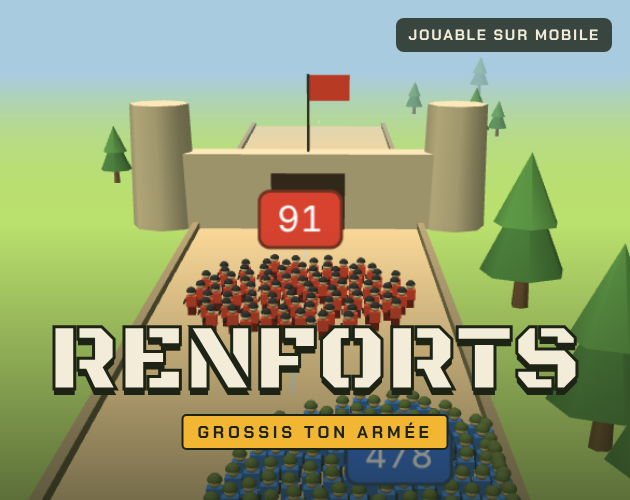
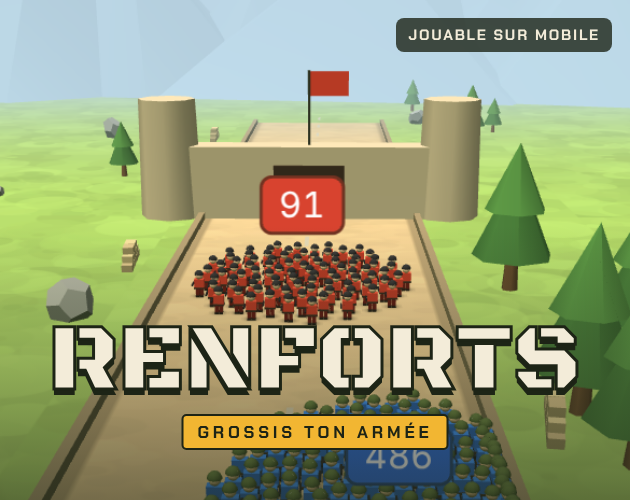
v0.5 : saut de qualité graphique
- Soldats animés : jambes séparées qui alternent pendant la course
- Ombres douces sous chaque soldat
- Ciel en dégradé et chaîne de montagnes estompée à l'horizon
- Textures générées pour le sol et la route
- Rochers, murets de sacs de sable, camp de départ (tentes, caisses, drapeau)
- Nouvelle couverture et nouvelles captures pour itch.io

Claude-Session: https://claude.ai/code/session_01S5JVXCMXMtVsKU2TcnB8Hc

diff --git a/index.html b/index.html
@@ -296,7 +296,40 @@ body {
   scene.background = new THREE.Color(COL.sky);
   scene.fog = new THREE.Fog(COL.sky, 55, 165);
   const camera = new THREE.PerspectiveCamera(55, 1, 0.5, 400);
-  scene.add(new THREE.HemisphereLight(0xffffff, 0x5f7340, 0.8));
+  const hemi = new THREE.HemisphereLight(0xffffff, 0x5f7340, 0.8);
+  scene.add(hemi);
+
+  const SKY_R = 330;
+  const skyGeo = new THREE.SphereGeometry(SKY_R, 24, 12);
+  skyGeo.setAttribute('color', new THREE.Float32BufferAttribute(new Float32Array(skyGeo.attributes.position.count * 3), 3));
+  const skyDome = new THREE.Mesh(skyGeo, new THREE.MeshBasicMaterial({ vertexColors: true, side: THREE.BackSide, fog: false, depthWrite: false }));
+  skyDome.renderOrder = -1;
+  scene.add(skyDome);
+  function paintSky(top, horizon) {
+    const pos = skyGeo.attributes.position, col = skyGeo.attributes.color;
+    const a = new THREE.Color(top), b = new THREE.Color(horizon), c = new THREE.Color();
+    for (let i = 0; i < pos.count; i++) {
+      const t = Math.pow(Math.max(0, pos.getY(i) / SKY_R), 0.55);
+      c.copy(b).lerp(a, t);
+      col.setXYZ(i, c.r, c.g, c.b);
+    }
+    col.needsUpdate = true;
+  }
+  // Chaîne de montagnes à l'horizon (suit la caméra, estompée par le brouillard)
+  const mountainMat = new THREE.MeshLambertMaterial({ color: 0x7c93a6, flatShading: true });
+  const mountains = new THREE.Group();
+  {
+    const r = mulberry32(99);
+    for (let i = 0; i < 26; i++) {
+      const a = -Math.PI * 0.95 + (i / 25) * Math.PI * 0.9 + (r() - 0.5) * 0.08;
+      const dist = 148 + r() * 14, h = 9 + r() * 15, w = 20 + r() * 20;
+      const m = new THREE.Mesh(new THREE.ConeGeometry(w, h, 5 + Math.floor(r() * 3)), mountainMat);
+      m.position.set(Math.cos(a) * dist, h / 2 - 1.5, Math.sin(a) * dist);
+      m.rotation.y = r() * 6;
+      mountains.add(m);
+    }
+  }
+  scene.add(mountains);
   const sun = new THREE.DirectionalLight(0xfff4e0, 0.7);
   sun.position.set(-8, 20, 10);
   scene.add(sun);
@@ -330,10 +363,11 @@ body {
     g.setAttribute('color', new THREE.Float32BufferAttribute(col, 3));
     return g;
   }
-  function makeSoldier(body, legs, helm) {
+  function makeSoldier(body, legs, helm, withLegs) {
     const g = mergeParts([
-      { geo: new THREE.BoxGeometry(0.26, 0.28, 0.16).translate(0, 0.14, 0), color: legs },
+      { geo: new THREE.BoxGeometry(withLegs === false ? 0.01 : 0.26, withLegs === false ? 0.01 : 0.28, withLegs === false ? 0.01 : 0.16).translate(0, 0.14, 0), color: legs },
       { geo: new THREE.BoxGeometry(0.34, 0.34, 0.22).translate(0, 0.45, 0), color: body },
+      { geo: new THREE.BoxGeometry(0.36, 0.06, 0.24).translate(0, 0.31, 0), color: 0x3b2f22 },
       { geo: new THREE.SphereGeometry(0.13, 8, 6).translate(0, 0.73, 0), color: COL.skin },
       { geo: new THREE.SphereGeometry(0.16, 8, 4, 0, Math.PI * 2, 0, Math.PI / 2).translate(0, 0.76, 0), color: helm },
       { geo: new THREE.BoxGeometry(0.05, 0.05, 0.44).translate(0.21, 0.47, -0.12), color: COL.gun }
@@ -341,10 +375,35 @@ body {
     g.scale(1.25, 1.25, 1.25);
     return g;
   }
+  // Une jambe : le haut de la boîte est la hanche (pivot de l'animation)
+  function makeLeg(color) {
+    const g = mergeParts([
+      { geo: new THREE.BoxGeometry(0.12, 0.3, 0.15).translate(0, -0.15, 0), color },
+      { geo: new THREE.BoxGeometry(0.13, 0.07, 0.19).translate(0, -0.27, -0.02), color: 0x2a2219 }
+    ]);
+    g.scale(1.25, 1.25, 1.25);
+    return g;
+  }
+  const HIP_Y = 0.36, LEG_X = 0.088;
   const vcMat = new THREE.MeshLambertMaterial({ vertexColors: true });
-  const allyMesh = new THREE.InstancedMesh(makeSoldier(COL.ally, COL.allyLegs, COL.helmA), vcMat, CAP_ALLY);
-  const enemyMesh = new THREE.InstancedMesh(makeSoldier(COL.enemy, COL.enemyLegs, COL.helmE), vcMat, CAP_ENEMY_TOTAL);
-  for (const m of [allyMesh, enemyMesh]) {
+  const allyMesh = new THREE.InstancedMesh(makeSoldier(COL.ally, COL.allyLegs, COL.helmA, false), vcMat, CAP_ALLY);
+  const enemyMesh = new THREE.InstancedMesh(makeSoldier(COL.enemy, COL.enemyLegs, COL.helmE, false), vcMat, CAP_ENEMY_TOTAL);
+  const allyLegs = new THREE.InstancedMesh(makeLeg(COL.allyLegs), vcMat, CAP_ALLY * 2);
+  const enemyLegs = new THREE.InstancedMesh(makeLeg(COL.enemyLegs), vcMat, CAP_ENEMY_TOTAL * 2);
+  // Ombres douces sous chaque soldat
+  function blobTexture() {
+    const c = document.createElement('canvas'); c.width = c.height = 64;
+    const x = c.getContext('2d'), g = x.createRadialGradient(32, 32, 2, 32, 32, 31);
+    g.addColorStop(0, 'rgba(20,24,16,0.5)'); g.addColorStop(1, 'rgba(20,24,16,0)');
+    x.fillStyle = g; x.fillRect(0, 0, 64, 64);
+    return new THREE.CanvasTexture(c);
+  }
+  const shadowMesh = new THREE.InstancedMesh(
+    new THREE.PlaneGeometry(0.85, 0.85).rotateX(-Math.PI / 2),
+    new THREE.MeshBasicMaterial({ map: blobTexture(), transparent: true, depthWrite: false, polygonOffset: true, polygonOffsetFactor: -2, polygonOffsetUnits: -2 }),
+    CAP_ALLY + CAP_ENEMY_TOTAL);
+  shadowMesh.renderOrder = 1;
+  for (const m of [allyMesh, enemyMesh, allyLegs, enemyLegs, shadowMesh]) {
     m.instanceMatrix.setUsage(THREE.DynamicDrawUsage);
     m.frustumCulled = false;
     m.count = 0;
@@ -431,10 +490,31 @@ body {
 
   // ---------- Décors (changent toutes les 3 opérations) ----------
   const BIOMES = [
-    { name: 'Plaine', kind: 'pine', sky: 0xa9cbe0, ground: 0x86a453, road: 0xb59f74, rail: 0x8a7b5c },
-    { name: 'Désert', kind: 'cactus', sky: 0xeccfa0, ground: 0xd9b47a, road: 0x9c8466, rail: 0x7a5f43 },
-    { name: 'Neige', kind: 'snow', sky: 0xc9d8e6, ground: 0xeef2f5, road: 0x8f969c, rail: 0x5f666c }
+    { name: 'Plaine', kind: 'pine', sky: 0xbcd6e6, top: 0x4f8fd0, mount: 0x89a3b5, rock: 0x8a8d84, bags: 0xb9a77a, ground: 0x86a453, road: 0xb59f74, rail: 0x8a7b5c, hemiG: 0x5f7340 },
+    { name: 'Désert', kind: 'cactus', sky: 0xf1d9b0, top: 0x6fa6d6, mount: 0xc99a6c, rock: 0xb07a4a, bags: 0xc9b385, ground: 0xd9b47a, road: 0x9c8466, rail: 0x7a5f43, hemiG: 0xa98455 },
+    { name: 'Neige', kind: 'snow', sky: 0xd6e2ec, top: 0x7ea3c6, mount: 0xb9c8d6, rock: 0x9aa4ad, bags: 0x9a8f72, ground: 0xeef2f5, road: 0x8f969c, rail: 0x5f666c, hemiG: 0xb8c4cc }
   ];
+  // Textures légères générées : variations de couleur du sol et de la route
+  function noiseTexture(base, w, h, blots, spread, edges) {
+    const c = document.createElement('canvas'); c.width = w; c.height = h;
+    const x = c.getContext('2d'), col = new THREE.Color(base), r = mulberry32(base & 0xffff);
+    x.fillStyle = '#' + col.getHexString(); x.fillRect(0, 0, w, h);
+    for (let i = 0; i < blots; i++) {
+      const k = 1 + (r() - 0.5) * spread, cc = col.clone().multiplyScalar(k);
+      x.fillStyle = 'rgba(' + Math.min(255, cc.r * 255 | 0) + ',' + Math.min(255, cc.g * 255 | 0) + ',' + Math.min(255, cc.b * 255 | 0) + ',0.5)';
+      const rad = 2 + r() * (w / 10);
+      x.beginPath(); x.arc(r() * w, r() * h, rad, 0, Math.PI * 2); x.fill();
+    }
+    if (edges) {
+      const dark = col.clone().multiplyScalar(0.78);
+      x.fillStyle = '#' + dark.getHexString();
+      x.fillRect(0, 0, w * 0.035, h); x.fillRect(w * 0.965, 0, w * 0.035, h);
+    }
+    const t = new THREE.CanvasTexture(c);
+    t.wrapS = t.wrapT = THREE.RepeatWrapping;
+    t.anisotropy = 4;
+    return t;
+  }
   function biomeOf(lv) { return BIOMES[Math.floor((lv - 1) / 3) % BIOMES.length]; }
   function isBoss(lv) { return lv % 5 === 0; }
   function makeTreeGeo(B) {
@@ -573,16 +653,23 @@ body {
     const B = biomeOf(save.level);
     scene.background.set(B.sky);
     scene.fog.color.set(B.sky);
+    paintSky(B.top, B.sky);
+    mountainMat.color.set(B.mount);
+    hemi.groundColor.set(B.hemiG);
     const L = genLevel(save.level, startCount);
     finalD = L.finalD;
     const roadLen = finalD + 90;
     const roadMid = -(finalD + 60) / 2 + 15;
 
     // Sol, route, rails
-    const ground = new THREE.Mesh(new THREE.PlaneGeometry(400, roadLen + 300), new THREE.MeshLambertMaterial({ color: B.ground }));
+    const groundTex = noiseTexture(B.ground, 256, 256, 260, 0.22, false);
+    groundTex.repeat.set(400 / 24, (roadLen + 300) / 24);
+    const ground = new THREE.Mesh(new THREE.PlaneGeometry(400, roadLen + 300), new THREE.MeshLambertMaterial({ map: groundTex }));
     ground.rotation.x = -Math.PI / 2; ground.position.set(0, -0.35, roadMid);
     levelGroup.add(ground);
-    const road = new THREE.Mesh(new THREE.BoxGeometry(HALF * 2, 0.3, roadLen), new THREE.MeshLambertMaterial({ color: B.road }));
+    const roadTex = noiseTexture(B.road, 128, 256, 160, 0.12, true);
+    roadTex.repeat.set(1, roadLen / 14);
+    const road = new THREE.Mesh(new THREE.BoxGeometry(HALF * 2, 0.3, roadLen), new THREE.MeshLambertMaterial({ map: roadTex }));
     road.position.set(0, -0.15, roadMid);
     levelGroup.add(road);
     for (const s of [-1, 1]) {
@@ -611,6 +698,55 @@ body {
       trees.setMatrixAt(i, m4);
     }
     levelGroup.add(trees);
+
+    // Rochers dans les champs
+    const nRocks = Math.floor(roadLen / 7);
+    const rocks = new THREE.InstancedMesh(new THREE.DodecahedronGeometry(0.9, 0), new THREE.MeshLambertMaterial({ color: B.rock, flatShading: true }), nRocks);
+    for (let i = 0; i < nRocks; i++) {
+      const side = i % 2 ? 1 : -1, sc = 0.4 + rnd() * 1.3;
+      m4.makeRotationFromEuler(new THREE.Euler(rnd() * 3, rnd() * 3, rnd() * 3));
+      m4.scale(new THREE.Vector3(sc, sc * 0.7, sc)).setPosition(side * (8 + rnd() * 34), sc * 0.25, 25 - rnd() * (roadLen + 30));
+      rocks.setMatrixAt(i, m4);
+    }
+    levelGroup.add(rocks);
+
+    // Murets de sacs de sable le long de la route
+    const bagParts = [];
+    for (let row = 0; row < 3; row++) {
+      for (let k = 0; k < 4 - row; k++) {
+        bagParts.push({ geo: new THREE.BoxGeometry(0.85, 0.32, 0.5).translate((k - (3 - row) / 2) * 0.88, 0.17 + row * 0.31, 0), color: new THREE.Color(B.bags).multiplyScalar(0.92 + ((k + row) % 2) * 0.1).getHex() });
+      }
+    }
+    const bagGeo = mergeParts(bagParts);
+    const nBags = Math.floor(roadLen / 22);
+    const bags = new THREE.InstancedMesh(bagGeo, new THREE.MeshLambertMaterial({ vertexColors: true }), nBags);
+    for (let i = 0; i < nBags; i++) {
+      const side = i % 2 ? 1 : -1;
+      m4.makeRotationY(Math.PI / 2 + (rnd() - 0.5) * 0.5).setPosition(side * (HALF + 1.9 + rnd() * 1.5), 0, 10 - i * 22 - rnd() * 8);
+      bags.setMatrixAt(i, m4);
+    }
+    levelGroup.add(bags);
+
+    // Le camp de départ : tentes, caisses et drapeau
+    const tentMat = new THREE.MeshLambertMaterial({ color: 0x5d6b3d, flatShading: true });
+    [[-10, 5], [10.5, 3], [-11, -5], [11, -7]].forEach(([tx, tz], i) => {
+      const tent = new THREE.Mesh(new THREE.CylinderGeometry(1.5, 1.5, 3.2, 3), tentMat);
+      tent.rotation.set(0, i % 2 ? 0.3 : -0.2, Math.PI / 2);
+      tent.rotation.order = 'YXZ';
+      tent.position.set(tx, 0.75, tz);
+      levelGroup.add(tent);
+    });
+    const campCrate = new THREE.MeshLambertMaterial({ color: 0x9a6b3c });
+    [[-7.8, 1, 0], [-7.6, -0.6, 0.4], [-7.7, 0.2, 0]].forEach(([cx, cz], i) => {
+      const c = new THREE.Mesh(new THREE.BoxGeometry(0.9, 0.9, 0.9), campCrate);
+      c.position.set(cx, 0.45 + (i === 2 ? 0.9 : 0), cz);
+      c.rotation.y = i * 0.4;
+      levelGroup.add(c);
+    });
+    const campPole = new THREE.Mesh(new THREE.CylinderGeometry(0.07, 0.07, 5, 6), new THREE.MeshLambertMaterial({ color: 0x3a3f30 }));
+    campPole.position.set(8, 2.5, 0); levelGroup.add(campPole);
+    const campFlag = new THREE.Mesh(new THREE.PlaneGeometry(1.8, 1.1), new THREE.MeshLambertMaterial({ color: COL.ally, side: THREE.DoubleSide }));
+    campFlag.position.set(8.9, 4.4, 0); levelGroup.add(campFlag);
 
     // Lignes de jeu
     gates = []; obstacles = []; squads = []; mines = []; crates = [];
@@ -933,6 +1069,7 @@ body {
   const camBase = new THREE.Vector3(0, 9, 12);
   const mtx = new THREE.Matrix4();
   const rotPi = new THREE.Matrix4().makeRotationY(Math.PI);
+  const legRot = new THREE.Matrix4();
   let last = performance.now();
 
   function placeTag(el, x, y, z) {
@@ -1199,28 +1336,52 @@ body {
   }
 
   function render() {
-    // Soldats alliés
+    // Soldats alliés : corps, deux jambes qui alternent, ombre
     const bobT = time * 12;
     const n = ally.units.length;
+    const moving = state === 'run' || state === 'battle' || state === 'victory';
+    let sh = 0;
     for (let i = 0; i < n; i++) {
       const u = ally.units[i];
-      const moving = state === 'run' || state === 'battle' || state === 'victory';
-      const y = moving ? Math.abs(Math.sin(bobT + i * 1.7)) * 0.12 : 0;
-      mtx.makeTranslation(clampX(ally.cx + u.x), y + (u.y || 0), -ally.d + u.z);
+      const ph = bobT + i * 1.7;
+      const y = (moving ? Math.abs(Math.sin(ph)) * 0.1 : 0) + (u.y || 0);
+      const sw = moving ? Math.sin(ph) * 0.75 : 0;
+      const x = clampX(ally.cx + u.x), z = -ally.d + u.z;
+      mtx.makeTranslation(x, y, z);
       allyMesh.setMatrixAt(i, mtx);
+      mtx.makeRotationX(sw).setPosition(x - LEG_X, HIP_Y + y, z);
+      allyLegs.setMatrixAt(i * 2, mtx);
+      mtx.makeRotationX(-sw).setPosition(x + LEG_X, HIP_Y + y, z);
+      allyLegs.setMatrixAt(i * 2 + 1, mtx);
+      const ss = u.y ? Math.max(0.3, 1 - u.y * 0.15) : 1;
+      mtx.makeScale(ss, 1, ss).setPosition(x, 0.02, z);
+      shadowMesh.setMatrixAt(sh++, mtx);
     }
     allyMesh.count = n;
+    allyLegs.count = n * 2;
     allyMesh.instanceMatrix.needsUpdate = true;
+    allyLegs.instanceMatrix.needsUpdate = true;
 
     // Soldats ennemis (seulement les escouades proches)
     let e = 0;
     for (const s of squads) {
       if (!s.alive || s.d - ally.d > 150 || s.d - ally.d < -20) { s.tag.hidden = true; continue; }
+      const fighting = battle === s;
       for (let i = 0; i < s.units.length && e < CAP_ENEMY_TOTAL; i++) {
         const u = s.units[i];
-        const y = battle === s ? Math.abs(Math.sin(bobT * 0.8 + i)) * 0.12 : 0;
-        mtx.copy(rotPi).setPosition(clampX(s.x + u.x), y, -s.d + u.z);
-        enemyMesh.setMatrixAt(e++, mtx);
+        const ph = bobT * 0.8 + i;
+        const y = fighting ? Math.abs(Math.sin(ph)) * 0.1 : 0;
+        const sw = fighting ? Math.sin(ph) * 0.6 : 0;
+        const x = clampX(s.x + u.x), z = -s.d + u.z;
+        mtx.copy(rotPi).setPosition(x, y, z);
+        enemyMesh.setMatrixAt(e, mtx);
+        mtx.copy(rotPi).multiply(legRot.makeRotationX(sw)).setPosition(x + LEG_X, HIP_Y + y, z);
+        enemyLegs.setMatrixAt(e * 2, mtx);
+        mtx.copy(rotPi).multiply(legRot.makeRotationX(-sw)).setPosition(x - LEG_X, HIP_Y + y, z);
+        enemyLegs.setMatrixAt(e * 2 + 1, mtx);
+        mtx.makeTranslation(x, 0.02, z);
+        shadowMesh.setMatrixAt(sh++, mtx);
+        e++;
       }
       const boss = s.final && bossMesh;
       setTag(s.tag, boss ? 'Général · ' + s.count : s.count);
@@ -1240,6 +1401,10 @@ body {
       placeTag(c.tag, c.x, 2.3, -c.d);
     }
     enemyMesh.instanceMatrix.needsUpdate = true;
+    enemyLegs.count = e * 2;
+    enemyLegs.instanceMatrix.needsUpdate = true;
+    shadowMesh.count = sh;
+    shadowMesh.instanceMatrix.needsUpdate = true;
 
     // Particules
     const dt = lastDt;
@@ -1276,6 +1441,8 @@ body {
       shake *= Math.exp(-7 * lastRealDt);
     }
     camera.lookAt(camLook);
+    skyDome.position.copy(camera.position);
+    mountains.position.set(camera.position.x, 0, camera.position.z);
 
     // Étiquettes
     if (allyTag) {

diff --git a/README.md b/README.md
@@ -24,4 +24,5 @@ Le texte de la page, la couverture et les captures sont dans `promo/`.
 - v0.2 ✅ : secousses de caméra, textes flottants aux portes, ralenti et confettis à la victoire, marche militaire, prime du fort (multiplicateur de médailles)
 - v0.3 ✅ : améliorations au camp (Recrues, Entraînement, Butin), caisses de renfort, champs de mines, Général géant toutes les 5 opérations, décors Plaine / Désert / Neige
 - v0.4 ✅ : tutoriel (indices la première fois que chaque élément apparaît), pause (bouton, Échap/P, pause automatique quand on quitte l'appli)
+- v0.5 ✅ : graphismes (soldats qui courent, ombres, ciel en dégradé, montagnes, textures du sol et de la route, rochers, sacs de sable, camp de départ)
 - v1.0 : publication web (itch.io) puis Android / iPhone
